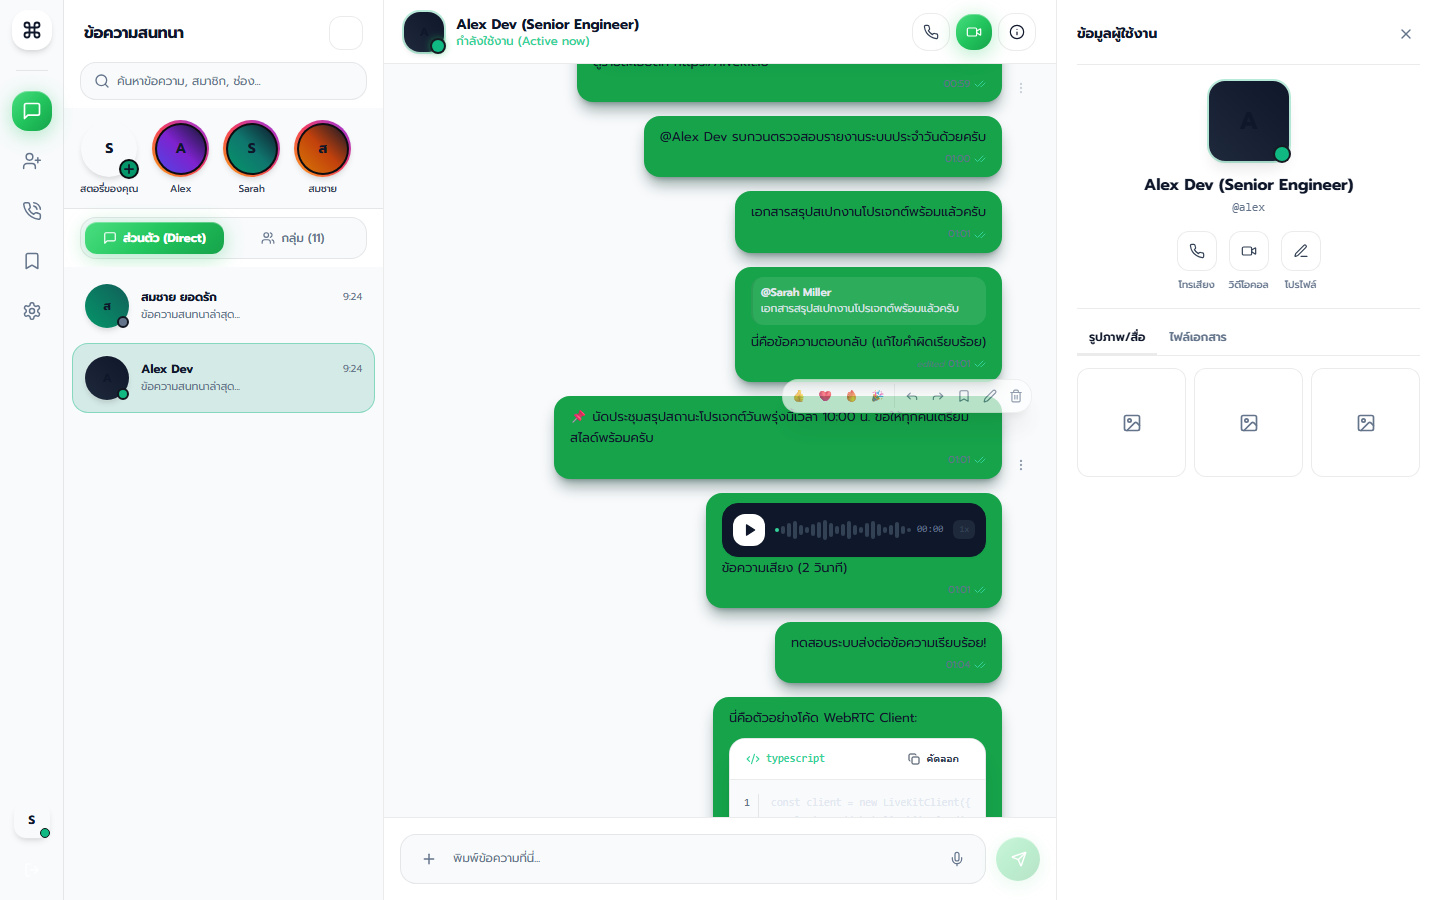
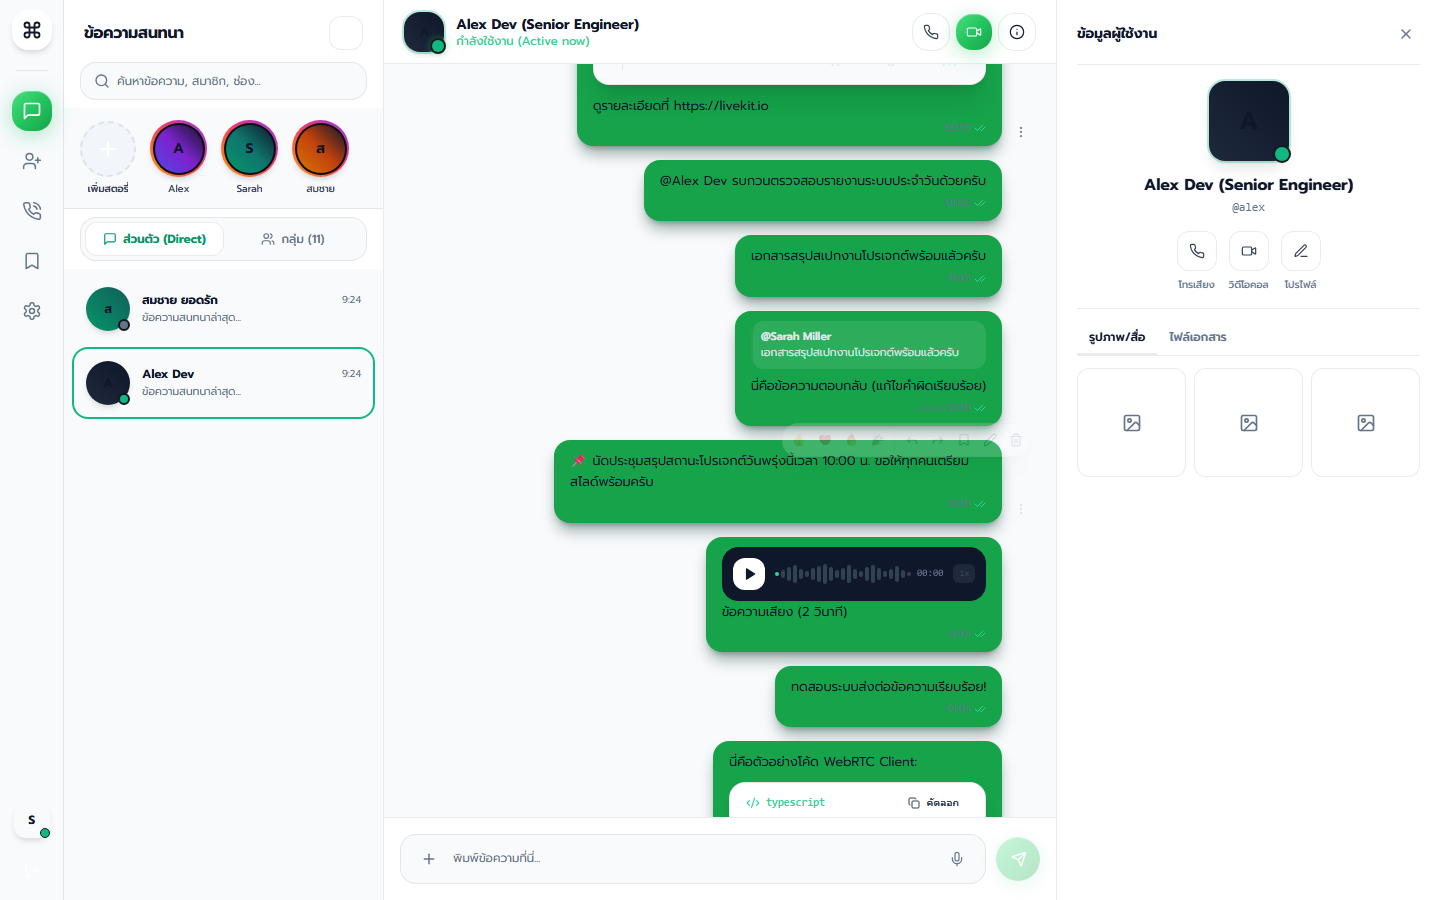
style(sidebar): refine add-story circular button, clean modern green-text tabs, and premium transparent emerald-bordered contact selection

Changed region(s): [[0.375, 0.0622, 0.7188, 0.9022], [0.0312, 0.1244, 0.2812, 0.4667], [0.1875, 0.2489, 0.2188, 0.28]]

diff --git a/components/chat/UserSidebar.tsx b/components/chat/UserSidebar.tsx
@@ -136,17 +136,17 @@ export const UserSidebar: React.FC<UserSidebarProps> = ({
         />
       )}
 
-      {/* Segmented Tab Controls */}
+      {/* Segmented Tab Controls (Point 2: Clean Modern with Green Text) */}
       <div className="px-4 py-2 shrink-0">
-        <div className="grid grid-cols-2 p-1 rounded-2xl bg-[#0F1216] border border-white/[0.07] text-xs font-medium">
+        <div className="grid grid-cols-2 p-1 rounded-2xl bg-slate-100 dark:bg-[#0F1216] border border-slate-200/80 dark:border-white/[0.07] text-xs font-medium">
           <button
             type="button"
             data-testid="tab-dm"
             onClick={() => setActiveTab("dm")}
             className={`flex items-center justify-center gap-1.5 py-2 rounded-xl transition-all ${
               activeTab === "dm"
-                ? "emerald-button-gradient text-white font-bold"
-                : "text-slate-400 hover:text-white"
+                ? "bg-white dark:bg-white/[0.08] text-emerald-600 dark:text-emerald-400 font-bold shadow-xs border border-slate-200/60 dark:border-white/10"
+                : "text-slate-500 dark:text-slate-400 hover:text-slate-800 dark:hover:text-white"
             }`}
           >
             <MessageSquare className="w-3.5 h-3.5" />
@@ -158,8 +158,8 @@ export const UserSidebar: React.FC<UserSidebarProps> = ({
             onClick={() => setActiveTab("channels")}
             className={`flex items-center justify-center gap-1.5 py-2 rounded-xl transition-all ${
               activeTab === "channels"
-                ? "emerald-button-gradient text-white font-bold"
-                : "text-slate-400 hover:text-white"
+                ? "bg-white dark:bg-white/[0.08] text-emerald-600 dark:text-emerald-400 font-bold shadow-xs border border-slate-200/60 dark:border-white/10"
+                : "text-slate-500 dark:text-slate-400 hover:text-slate-800 dark:hover:text-white"
             }`}
           >
             <Users className="w-3.5 h-3.5" />
@@ -211,13 +211,13 @@ export const UserSidebar: React.FC<UserSidebarProps> = ({
 
               return (
                 <button
-                  key={user.username}
+                  key={user.id}
                   data-testid={`contact-item-${user.username}`}
                   onClick={() => onSelectUser(user)}
                   className={`w-full flex items-center gap-3 p-3 rounded-2xl transition-all text-left group ${
                     isSelected
-                      ? "bg-emerald-600/15 border border-emerald-500/40 text-white"
-                      : "hover:bg-white/5 text-slate-300 hover:text-white border border-transparent"
+                      ? "bg-transparent border-2 border-emerald-500 text-slate-900 dark:text-white shadow-xs"
+                      : "hover:bg-slate-100 dark:hover:bg-white/5 text-slate-600 dark:text-slate-300 hover:text-slate-900 dark:hover:text-white border-2 border-transparent"
                   }`}
                 >
                   <div className="relative shrink-0">
@@ -269,8 +269,8 @@ export const UserSidebar: React.FC<UserSidebarProps> = ({
                   onClick={() => onSelectChannel(channel)}
                   className={`w-full flex items-center gap-3 p-3 rounded-2xl transition-all text-left group ${
                     isSelected
-                      ? "bg-emerald-600/15 border border-emerald-500/40 text-white"
-                      : "hover:bg-white/5 text-slate-300 hover:text-white border border-transparent"
+                      ? "bg-transparent border-2 border-emerald-500 text-slate-900 dark:text-white shadow-xs"
+                      : "hover:bg-slate-100 dark:hover:bg-white/5 text-slate-600 dark:text-slate-300 hover:text-slate-900 dark:hover:text-white border-2 border-transparent"
                   }`}
                 >
                   <div className="w-11 h-11 rounded-2xl bg-[#0B0D11] border border-white/10 flex items-center justify-center text-emerald-400 shrink-0">

diff --git a/components/story/StoryTray.tsx b/components/story/StoryTray.tsx
@@ -22,27 +22,19 @@ export const StoryTray: React.FC<StoryTrayProps> = ({
   return (
     <div
       data-testid="story-tray"
-      className="flex items-center gap-3.5 px-4 py-3 overflow-x-auto custom-scrollbar select-none bg-[#0B0D11]/60 border-b border-white/10 shrink-0"
+      className="flex items-center gap-3.5 px-4 py-3 overflow-x-auto custom-scrollbar select-none bg-transparent border-b border-slate-200/80 dark:border-white/10 shrink-0"
     >
-      {/* 1. Add My Story Button */}
+      {/* 1. Add My Story Button (Clean Circle with Dark Charcoal Plus) */}
       <div
         onClick={onAddStory}
+        data-testid="add-story-btn"
         className="flex flex-col items-center gap-1 shrink-0 cursor-pointer group"
       >
-        <div className="relative">
-          <div
-            className={`w-13 h-13 sm:w-14 sm:h-14 rounded-full bg-gradient-to-tr ${getAvatarColor(
-              currentUser.username
-            )} flex items-center justify-center text-white text-xs sm:text-sm font-bold shadow-md ring-2 ring-white/10 group-hover:ring-emerald-500 transition-all`}
-          >
-            {currentUser.display_name.charAt(0).toUpperCase()}
-          </div>
-          <div className="absolute -bottom-0.5 -right-0.5 w-5 h-5 rounded-full bg-emerald-600 border-2 border-[#0B0D11] text-white flex items-center justify-center shadow-sm">
-            <Plus className="w-3.5 h-3.5 stroke-[3]" />
-          </div>
+        <div className="w-13 h-13 sm:w-14 sm:h-14 rounded-full border-2 border-dashed border-slate-300 dark:border-white/20 bg-slate-100/90 dark:bg-white/[0.04] flex items-center justify-center text-slate-700 dark:text-slate-300 group-hover:border-emerald-500 group-hover:text-emerald-500 group-hover:bg-emerald-500/10 transition-all shadow-xs">
+          <Plus className="w-6 h-6 stroke-[2.2]" />
         </div>
-        <span className="text-[10px] font-medium text-slate-300 truncate max-w-[60px]">
-          สตอรี่ของคุณ
+        <span className="text-[10px] font-semibold text-slate-700 dark:text-slate-300 truncate max-w-[64px]">
+          เพิ่มสตอรี่
         </span>
       </div>
 
